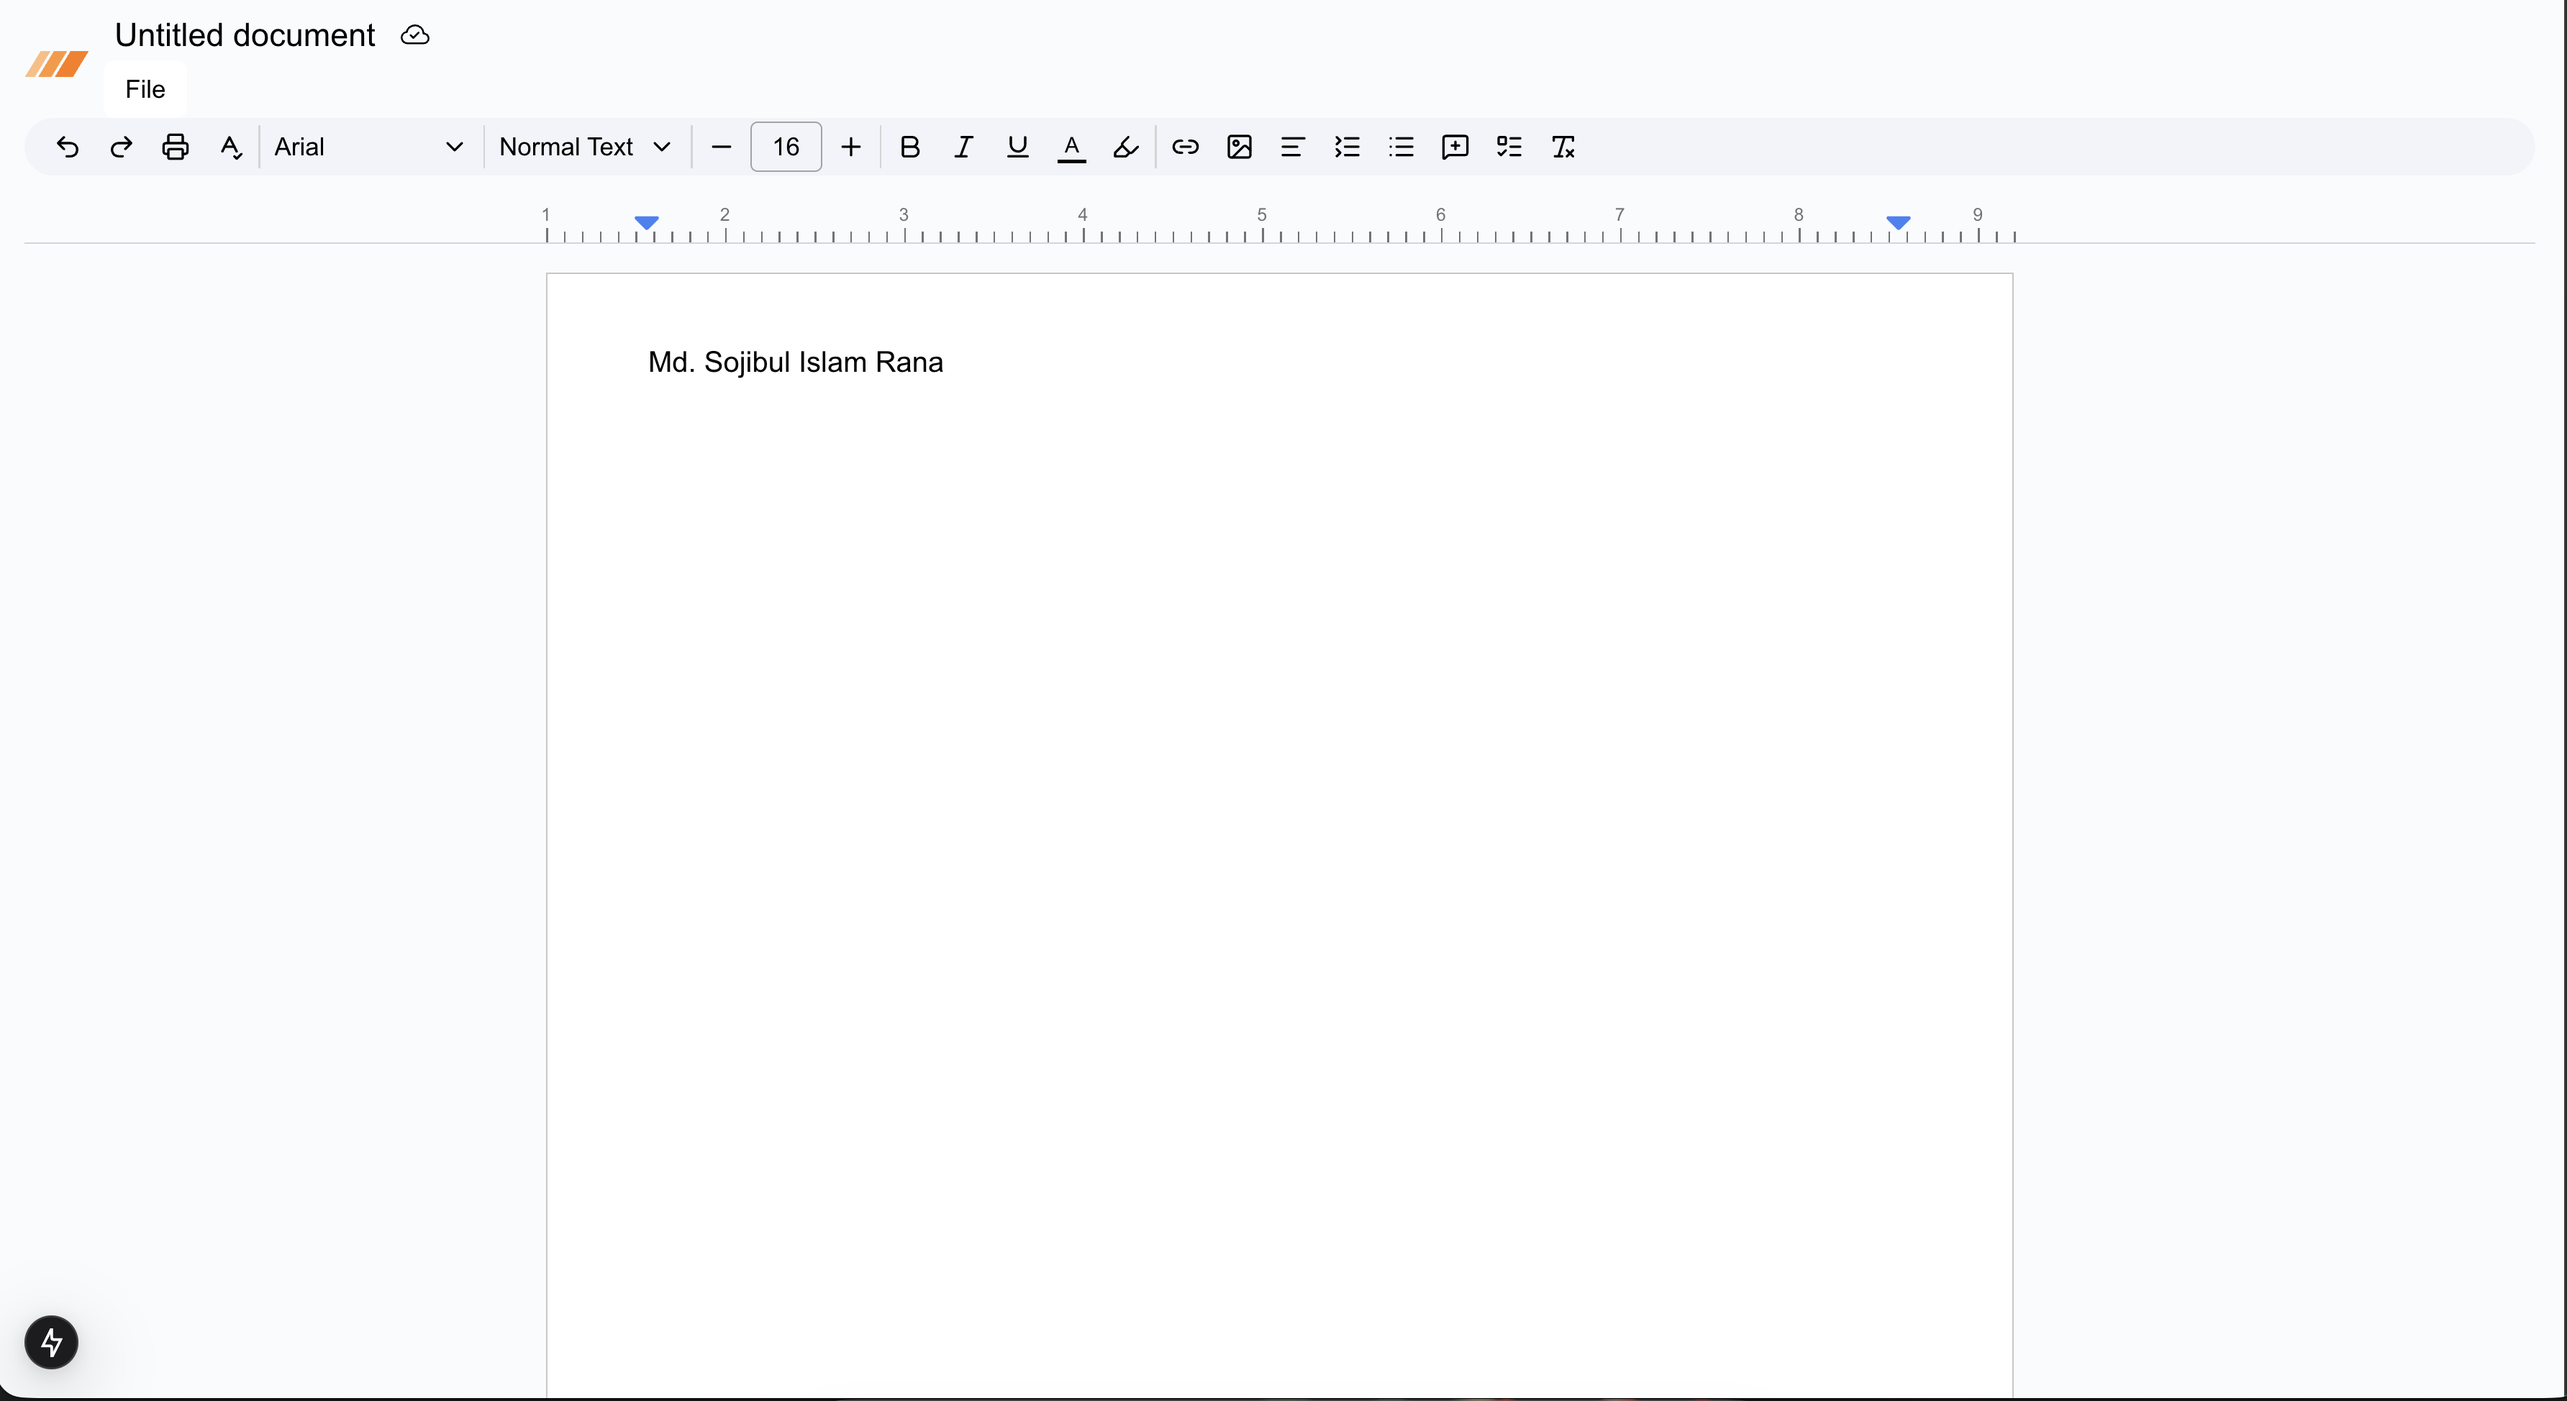
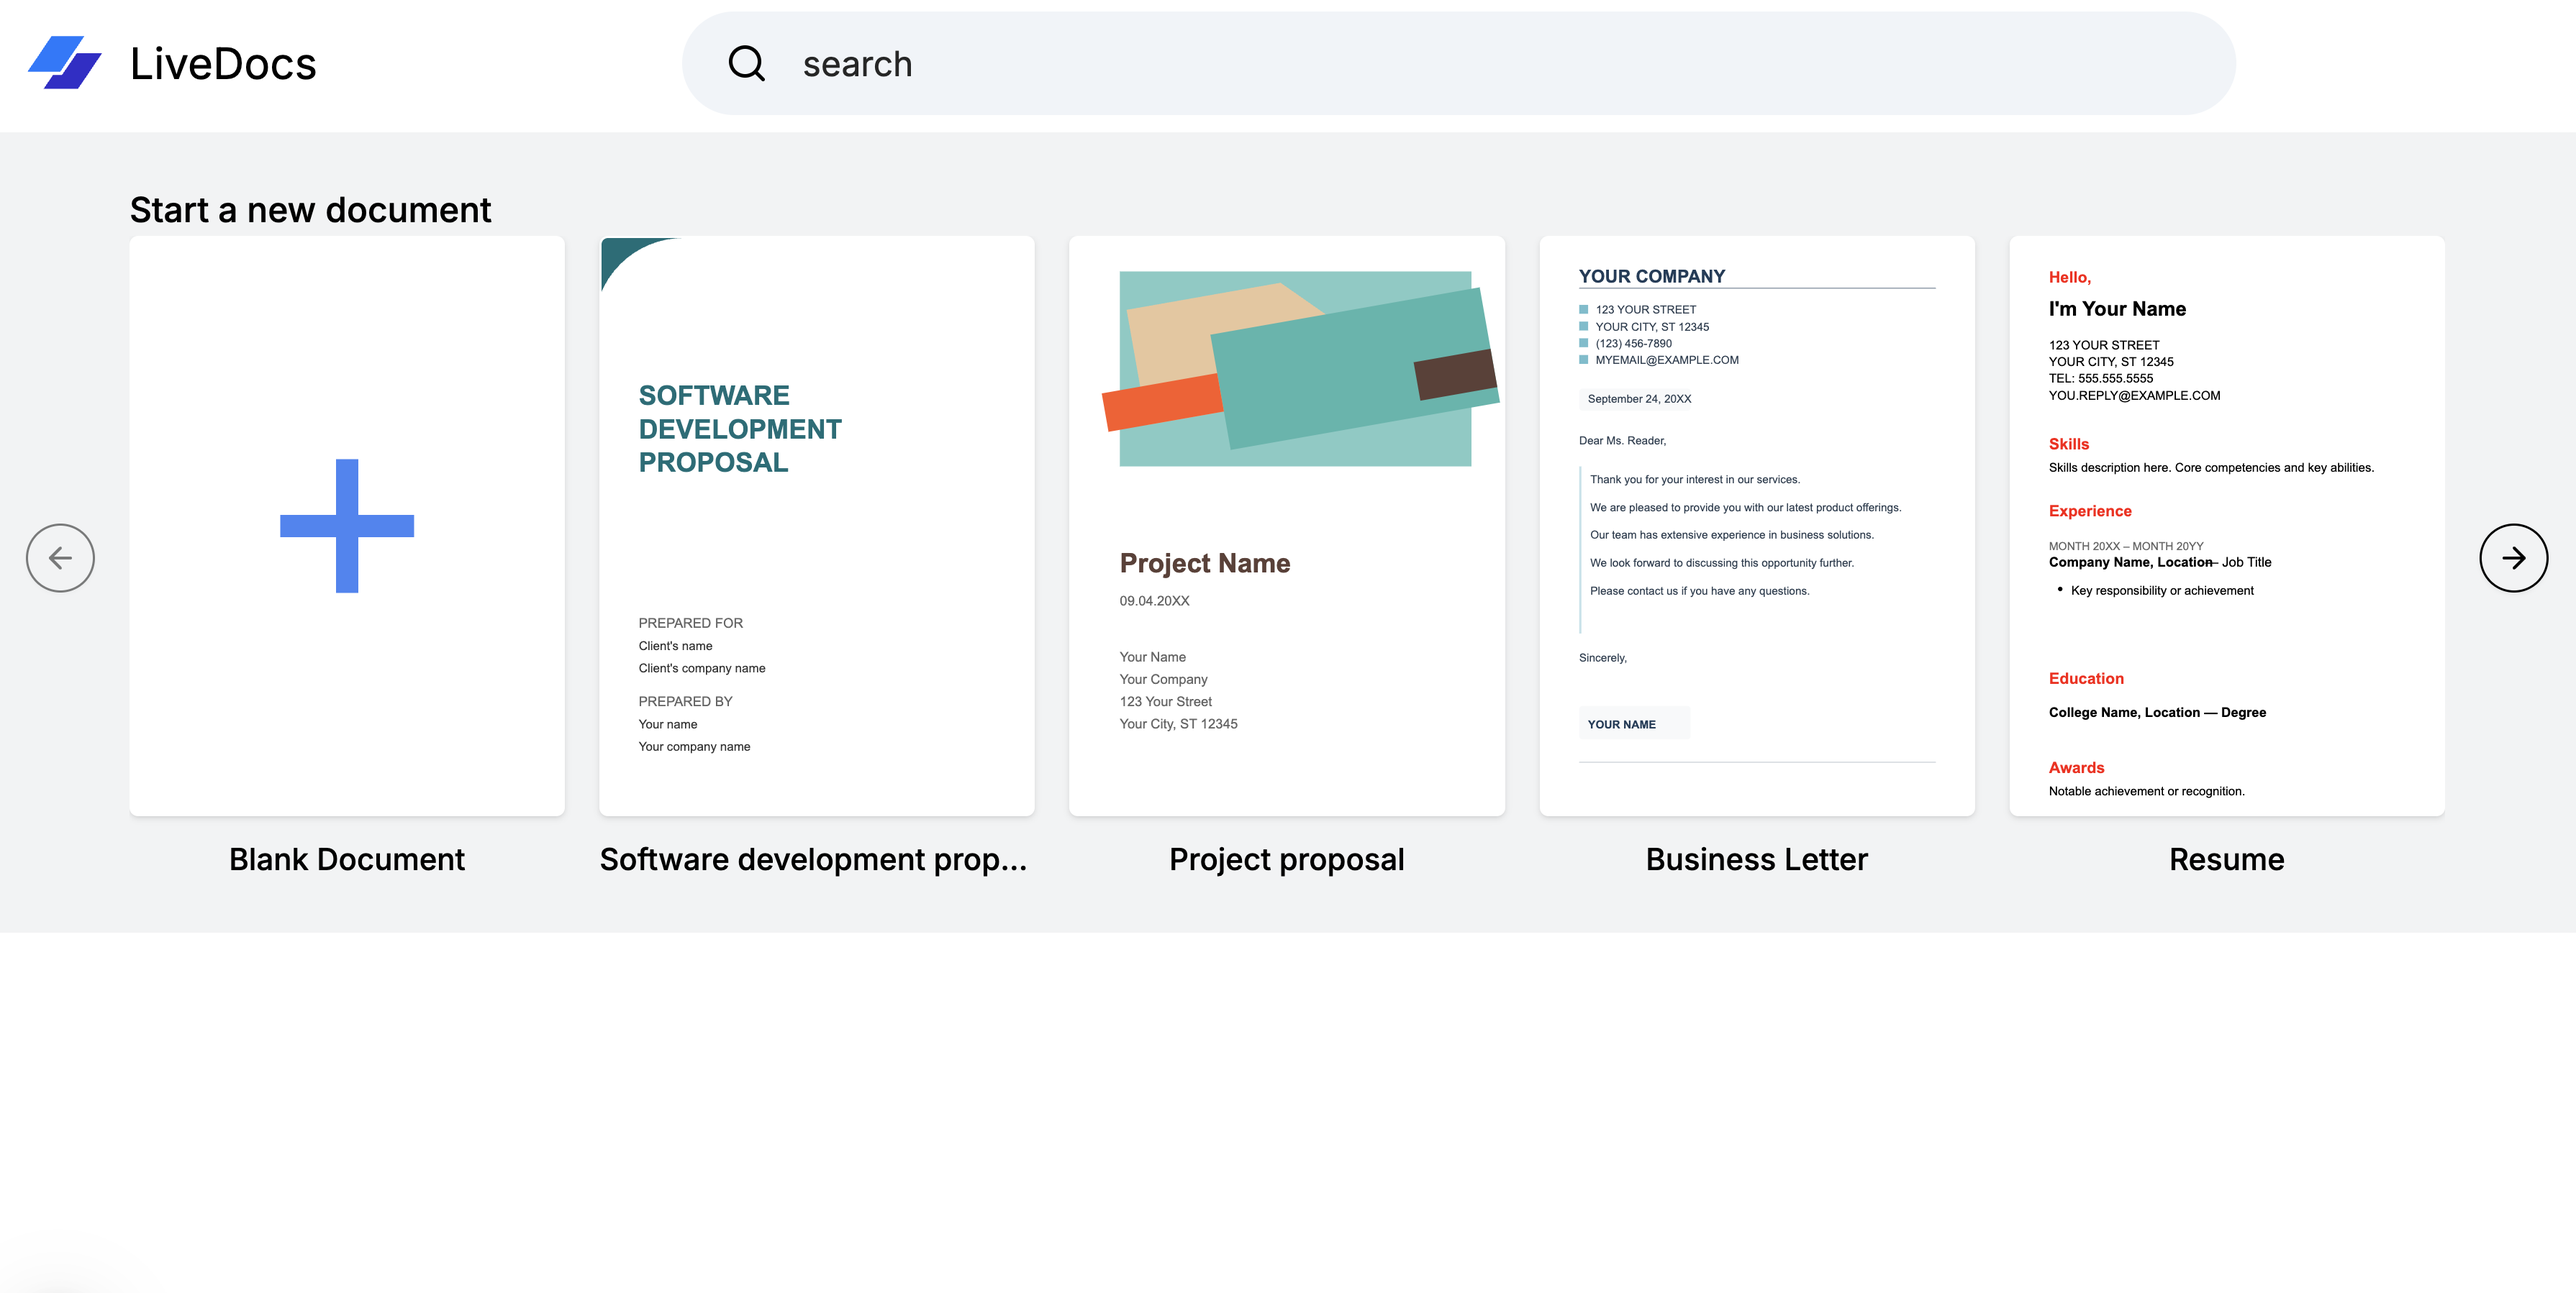
feat: homepage start a new document

diff --git a/src/app/(home)/template-gallary.tsx b/src/app/(home)/template-gallary.tsx
@@ -1,0 +1,57 @@
+"use client";
+
+import { Button } from "@/components/ui/button";
+import {
+  Carousel,
+  CarouselContent,
+  CarouselItem,
+  CarouselNext,
+  CarouselPrevious,
+} from "@/components/ui/carousel";
+import { templates } from "@/constants/templates";
+import { cn } from "@/lib/utils";
+
+export const TemplateGallery = () => {
+  const isCreating = false;
+  return (
+    <div className="bg-[#F1F3F4] ">
+      <div className="max-w-screen-xl mx-auto px-16 py-6 flex flex-col pag-y-4">
+        <h3 className="text-base font-medium">Start a new document</h3>
+        <Carousel>
+          <CarouselContent className="-ml-4">
+            {templates.map((template) => (
+              <CarouselItem
+                key={template.id}
+                className="basis-1/2 sm:basis-1/3 md:basis-1/4 lg:basis-1/5 xl:basis-1/6 2xl:basis-[14.285714%] pl-4"
+              >
+                <div
+                  className={cn(
+                    "aspect-[3/4] flex flex-col gap-y-2.5",
+                    isCreating && "pointer-events-none opacity-50",
+                  )}
+                >
+                  <Button
+                    disabled={isCreating}
+                    onClick={() => {}}
+                    style={{
+                      backgroundImage: `url(${template.imageUrl})`,
+                      backgroundSize: "cover",
+                      backgroundPosition: "center",
+                      backgroundRepeat: "no-repeat",
+                    }}
+                    className="size-full border-white  hover:border-blue-500 rounded-sm border hover:bg-blue-50 transition flex felx-col items-center justify-center gap-y-4 bg-white"
+                  />
+                  <p className="text-sm font-medium truncate text-center">
+                    {template.label}
+                  </p>
+                </div>
+              </CarouselItem>
+            ))}
+          </CarouselContent>
+          <CarouselPrevious />
+          <CarouselNext />
+        </Carousel>
+      </div>
+    </div>
+  );
+};

diff --git a/src/constants/templates.ts b/src/constants/templates.ts
@@ -1,0 +1,33 @@
+export const templates = [
+  { id: "blank", label: "Blank Document", imageUrl: "/blank-document.svg" },
+  {
+    id: "software-proposal ",
+    label: "Software development proposal",
+    imageUrl: "/software-proposal.svg",
+  },
+  {
+    id: "project-proposal ",
+    label: "Project proposal",
+    imageUrl: "/project-proposal.svg",
+  },
+  {
+    id: "business-letter",
+    label: "Business Letter",
+    imageUrl: "/business-letter.svg",
+  },
+  {
+    id: "resume",
+    label: "Resume",
+    imageUrl: "/resume.svg",
+  },
+  {
+    id: "cover-letter",
+    label: "Cover letter",
+    imageUrl: "/cover-letter.svg",
+  },
+  {
+    id: "letter",
+    label: "Letter",
+    imageUrl: "/letter.svg",
+  },
+];

diff --git a/src/app/(home)/page.tsx b/src/app/(home)/page.tsx
@@ -1,6 +1,7 @@
 import Link from "next/link";
 import React from "react";
 import { Navbar } from "./navbar";
+import { TemplateGallery } from "./template-gallary";
 
 const Home = () => {
   return (
@@ -9,12 +10,7 @@ const Home = () => {
         <Navbar />
       </div>
       <div className="mt-16">
-        Click
-        <Link href="/documents/ranawillrulethiscountry">
-          &nbsp;
-          <span className="text-blue-800 underline">here</span>
-        </Link>
-        &nbsp; to go to the document.
+        <TemplateGallery />
       </div>
     </div>
   );

diff --git a/README.md b/README.md
@@ -5,8 +5,8 @@ A light weight multiuser realtime text editor where multiple users can write, ed
 > !!!! ON DEVELOPMENT !!!!
 
 ### Preview
+
+<img src= "public/cover/cover.png">
 <img src= "public/cover/cover2.png">
-
-
 
 Build with ♥ by `Sojibul Islam Rana`.
